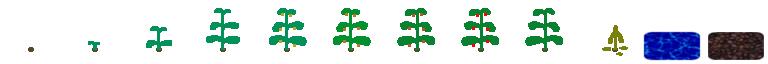
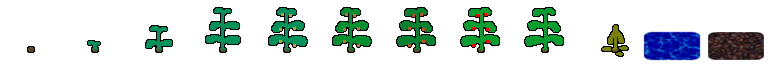
Slightly improve visibility of the crops

diff --git a/lib/harvest-ruby/game_objects.rb b/lib/harvest-ruby/game_objects.rb
@@ -31,8 +31,8 @@ module HarvestRuby
         @quality += self.water ? cfg(:quality).can : -cfg(:quality).can
         @quality += self.soil ? cfg(:quality).hoe : -cfg(:quality).hoe
 
-        self.wither if @quality <= cfg(:quality).wither_threshold # && rand(100) >= cfg(:quality).wither_chance
       end
+      self.wither if @quality <= cfg(:quality).wither_threshold or state == :harvested # && rand(100) >= cfg(:quality).wither_chance
     end
 
     def harvest
